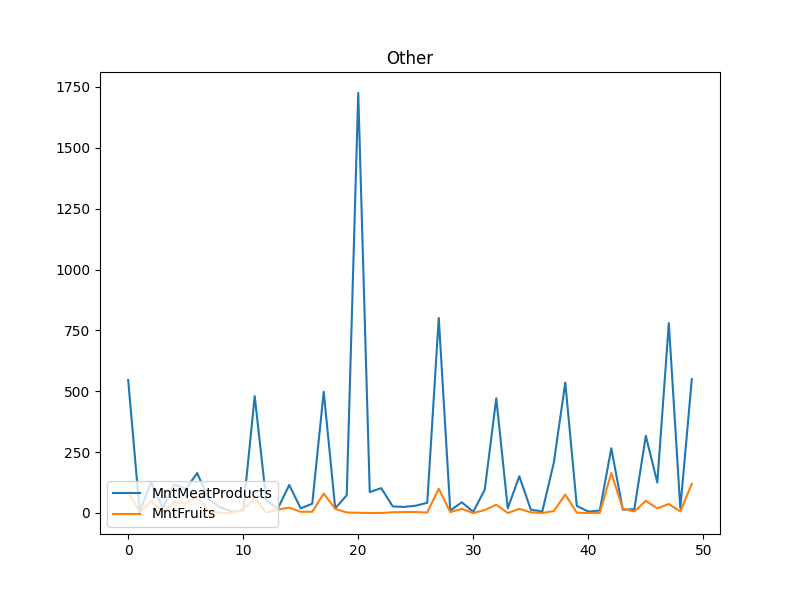
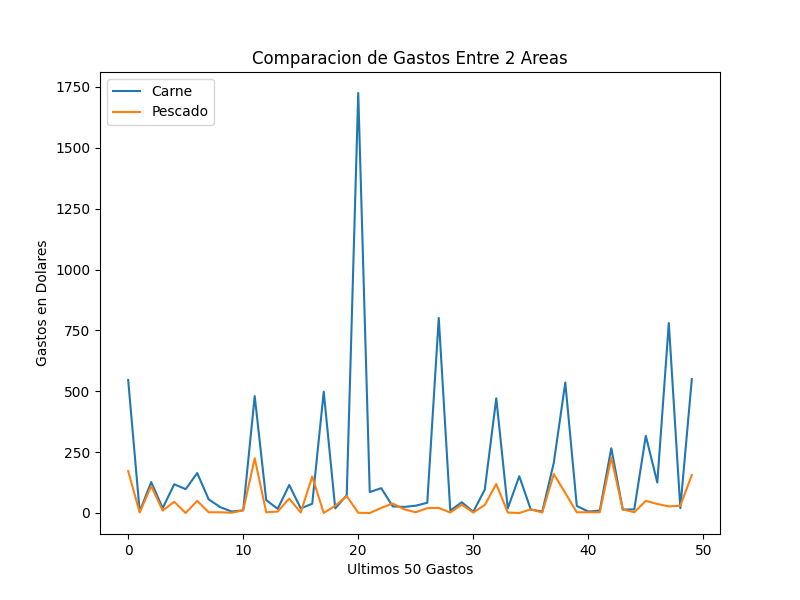
Feat: Se termina la pagina del grafico de comparacion de productos

diff --git a/static/css/style.css b/static/css/style.css
@@ -136,6 +136,26 @@ form.form-upload-file {
     background: #f9f9f9;
     border-radius: 1rem;
     box-shadow: 5px 5px 10px #b9b9b9;
+
+    label.upload-label {
+        font-size: 1.6em;
+        font-weight: 500;
+        color: #023e8a;
+    }
+    input.csv-input {
+        width: 60%;
+        background: #115dbe;
+        padding: 1rem 0.8rem;
+        border-radius: 0.5rem;
+        color: white;
+    }
+    button.btn-upload-csv {
+        height: 3em;
+        width: 60%;
+        background: #023e8a;
+        color: white;
+        border-radius: 0.3rem;
+    }
 }
 
 section.main-section-upfile {
@@ -145,4 +165,59 @@ section.main-section-upfile {
     display: flex;
     justify-content: center;
     align-items: center;
+}
+
+main.main-market {
+    display: flex;
+    flex-direction: column;
+    align-items: center;
+    justify-content: start;
+
+    .main-section-desc {
+        display: flex;
+        justify-content: center;
+        align-items: center;
+    }
+    img.landing-main-logo {
+        height: 100%;
+        width: 65%;
+        margin: 0;
+        object-fit: contain;
+    }
+    .form-container {
+        height: 100%;
+    }
+    form.form-values {
+        height: 100%;
+        width: 100%;
+        display: flex;
+        flex-direction: column;
+        justify-content: center;
+        align-items: center;
+        gap: 0.5rem;
+
+        label.form-select-label {
+            height: 2em;
+            font-size: 1.1em;
+            font-weight: 500;
+            color: #023e8a;
+        }
+        select.form-select {
+            height: 2.3em;
+            width: 100%;
+            border: 1px solid #8080807d;
+            border-radius: 0.3rem;
+            cursor: pointer;
+        }
+        button.btn-compare {
+            height: 2.3em;
+            width: 100%;
+            background: #023e8a;
+            color: white;
+            font-size: 0.8em;
+            border: none;
+            cursor: pointer;
+            margin-top: 1rem;
+        }
+    }
 }

diff --git a/templates/pages/market.html b/templates/pages/market.html
@@ -10,17 +10,17 @@
         </span>
         {% include "components/navbar.html" %}
     </header>
-    <main class="main-landing">
-        
+    <main class="main-market">
         <section class="main-section-desc">
             <img src="{{ url_for('static', filename='img/charts/mtn_prods_chart.png') }}" alt="" class="landing-main-logo">
-            <div class="desc-container">
-                <h1 class="desc-title">
-                    EMPIEZA A GESTIONAR TUS GASTOS CON {{ app_name.upper() }}!
-                </h1>
-                <span class="desc-content">
-                    Lorem ipsum dolor sit amet consectetur adipisicing elit. Veniam, illo, velit quaerat at eius enim, eum accusantium consequuntur tenetur inventore quis doloremque recusandae! Vero provident molestias pariatur voluptates! Fugit, delectus.
-                </span>
+            <div class="form-container">
+                <form action="/market" method="GET" class="form-values">
+                    {% for value_id, select_options in select_values.items() %}
+                        {% include "./components/selects.html" %}
+                    {% endfor %}
+                    <button type="submit" class="btn-compare">Comparar</button>
+
+                </form>
             </div>
         </section>
     </main>

diff --git a/templates/pages/load_csv.html b/templates/pages/load_csv.html
@@ -13,9 +13,9 @@
     <main class="main-landing">
         <section class="main-section-upfile">
             <form action="/upload" method="POST" enctype="multipart/form-data" class="form-upload-file">
-            <label for="csv">Subí un archivo CSV:</label>
-            <input type="file" name="csv_file" accept=".csv" required />
-            <button type="submit">Cargar</button>
+            <label for="csv" class="upload-label">Subí un archivo CSV:</label>
+            <input type="file" name="csv_file" accept=".csv" class="csv-input" required />
+            <button type="submit" class="btn-upload-csv">CARGAR ARCHIVO</button>
             </form>
         </section>
     </main>

diff --git a/templates/components/selects.html b/templates/components/selects.html
@@ -1,0 +1,10 @@
+<label for="{{ value_id }}" class="form-select-label">Elige las areas a comparar:</label>
+<select id="{{ value_id }}" name="{{ value_id }}" class="form-select">
+    {% for option in select_options.options %}
+        {% if select_options.option_selected == option %}
+            <option value="{{ option }}" selected>{{ option }}</option>
+        {% else %}
+            <option value="{{ option }}">{{ option }}</option>
+        {% endif %}
+    {% endfor %}
+</select>

diff --git a/templates/base.html b/templates/base.html
@@ -5,6 +5,8 @@
     <meta name="viewport" content="width=device-width, initial-scale=1.0">
     <link rel="stylesheet" href="https://fonts.googleapis.com/css2?family=Material+Symbols+Outlined" />
     <link rel="stylesheet" href="{{ url_for('static', filename='css/style.css') }}">
+    <link rel="stylesheet" href="{{ url_for('static', filename='css/calculator.css') }}">
+
     <title>
         {{ app_section }} - {{ app_name }}
     </title>

diff --git a/models/Market_expenses.py b/models/Market_expenses.py
@@ -33,20 +33,38 @@ class Market_expenses(db.Model):
 
     def create_comparation_chart(cls, item1, item2):
 
-        values_item1 = []
-        values_item2 = []
+        column_1 = cls.get_column_name_by_item_selected(item1)
+        column_2 = cls.get_column_name_by_item_selected(item2)
+
+        values_column_1 = []
+        values_column_2 = []
 
         data = cls.query.all()
         for row in data[:50]:
-            values_item1.append(getattr(row, item1))
-            values_item2.append(getattr(row, item2))
+            values_column_1.append(getattr(row, column_1))
+            values_column_2.append(getattr(row, column_2))
 
         plt.figure(figsize=(8,6))
 
-        plt.plot(values_item1, label=item1)
-        plt.plot(values_item2, label=item2)
+        plt.plot(values_column_1, label=item1)
+        plt.plot(values_column_2, label=item2)
 
-        plt.title('Other')
-        plt.legend(loc='lower left')
+        plt.title('Comparacion de Gastos Entre 2 Areas')
+        plt.legend(loc='upper left')
+        plt.ylabel("Gastos en Dolares")
+        plt.xlabel("Ultimos 50 Gastos") 
         plt.savefig('./static/img/charts/mtn_prods_chart.png')
         plt.close()
+
+    def get_column_name_by_item_selected(item):
+
+        switch = {
+            'Pescado': 'MntFishProducts',
+            'Carne': 'MntMeatProducts',
+            'Frutas': 'MntFruits',
+            'Dulces': 'MntSweetProducts',
+            'Vinos': 'MntWines',
+            'Oro': 'MntGoldProds',
+        }
+
+        return switch.get(item, None)

diff --git a/app.py b/app.py
@@ -53,6 +53,9 @@ def loadData():
 @app.route('/market')
 def market():
 
+    item1 = request.args.get('v1', 'Carne')
+    item2 = request.args.get('v2', 'Pescado')
+
     links = {
         'LANDING' : '/landing',
         'CARGAR DATA' : '/loadData',
@@ -72,7 +75,23 @@ def market():
     else:
         print("Modelo ya populado.")
 
-    Market_expenses.create_comparation_chart(Market_expenses,'MntMeatProducts','MntFruits')
+
+    options = ['Pescado','Carne','Frutas','Dulces','Vinos','Oro']
+    page_vars = {
+        **page_vars,
+        'select_values' : {
+            'v1' : {
+                'options': options,
+                'option_selected' : item1,
+            },
+            'v2' : {
+                'options': options,
+                'option_selected' : item2,
+            },
+        },
+    }
+    
+    Market_expenses.create_comparation_chart(Market_expenses, item1, item2)
     
     print(page_vars)
 
